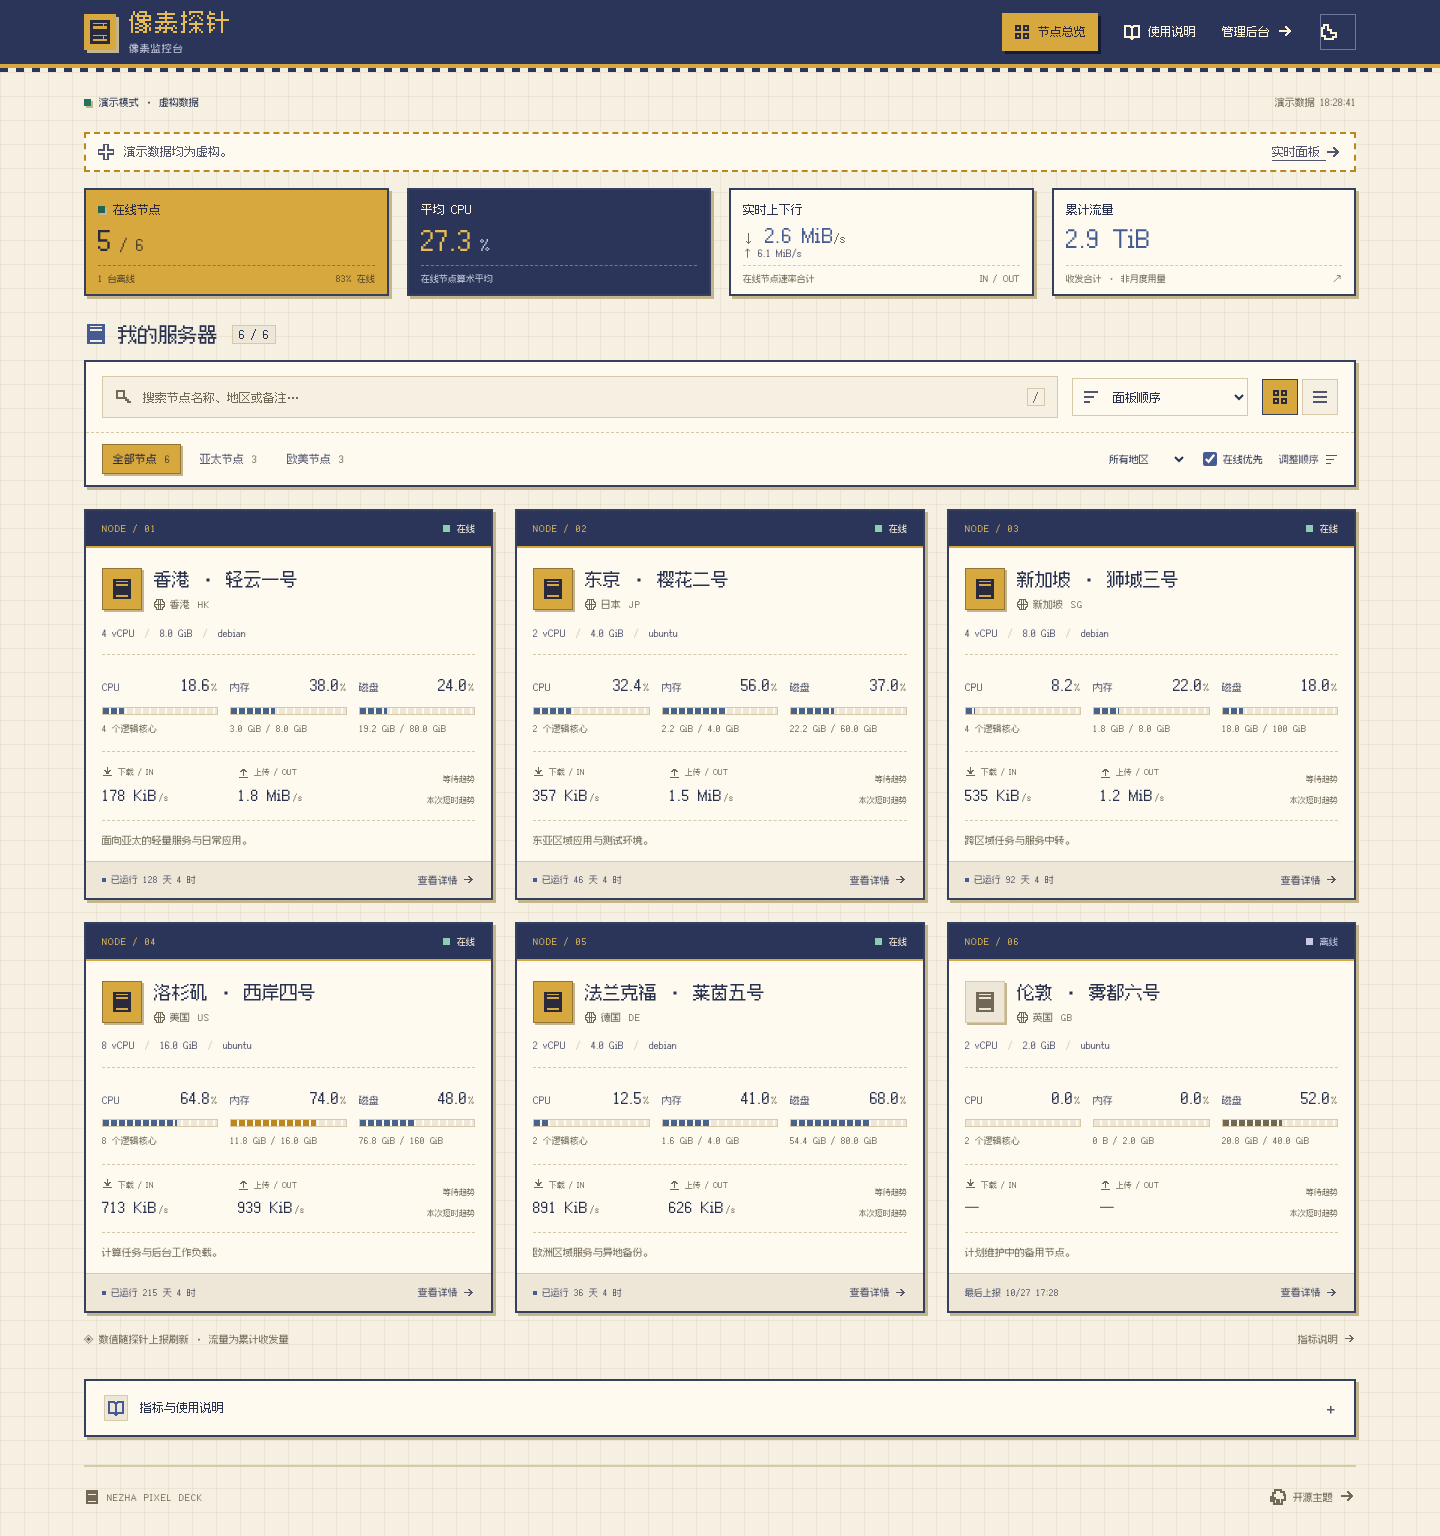
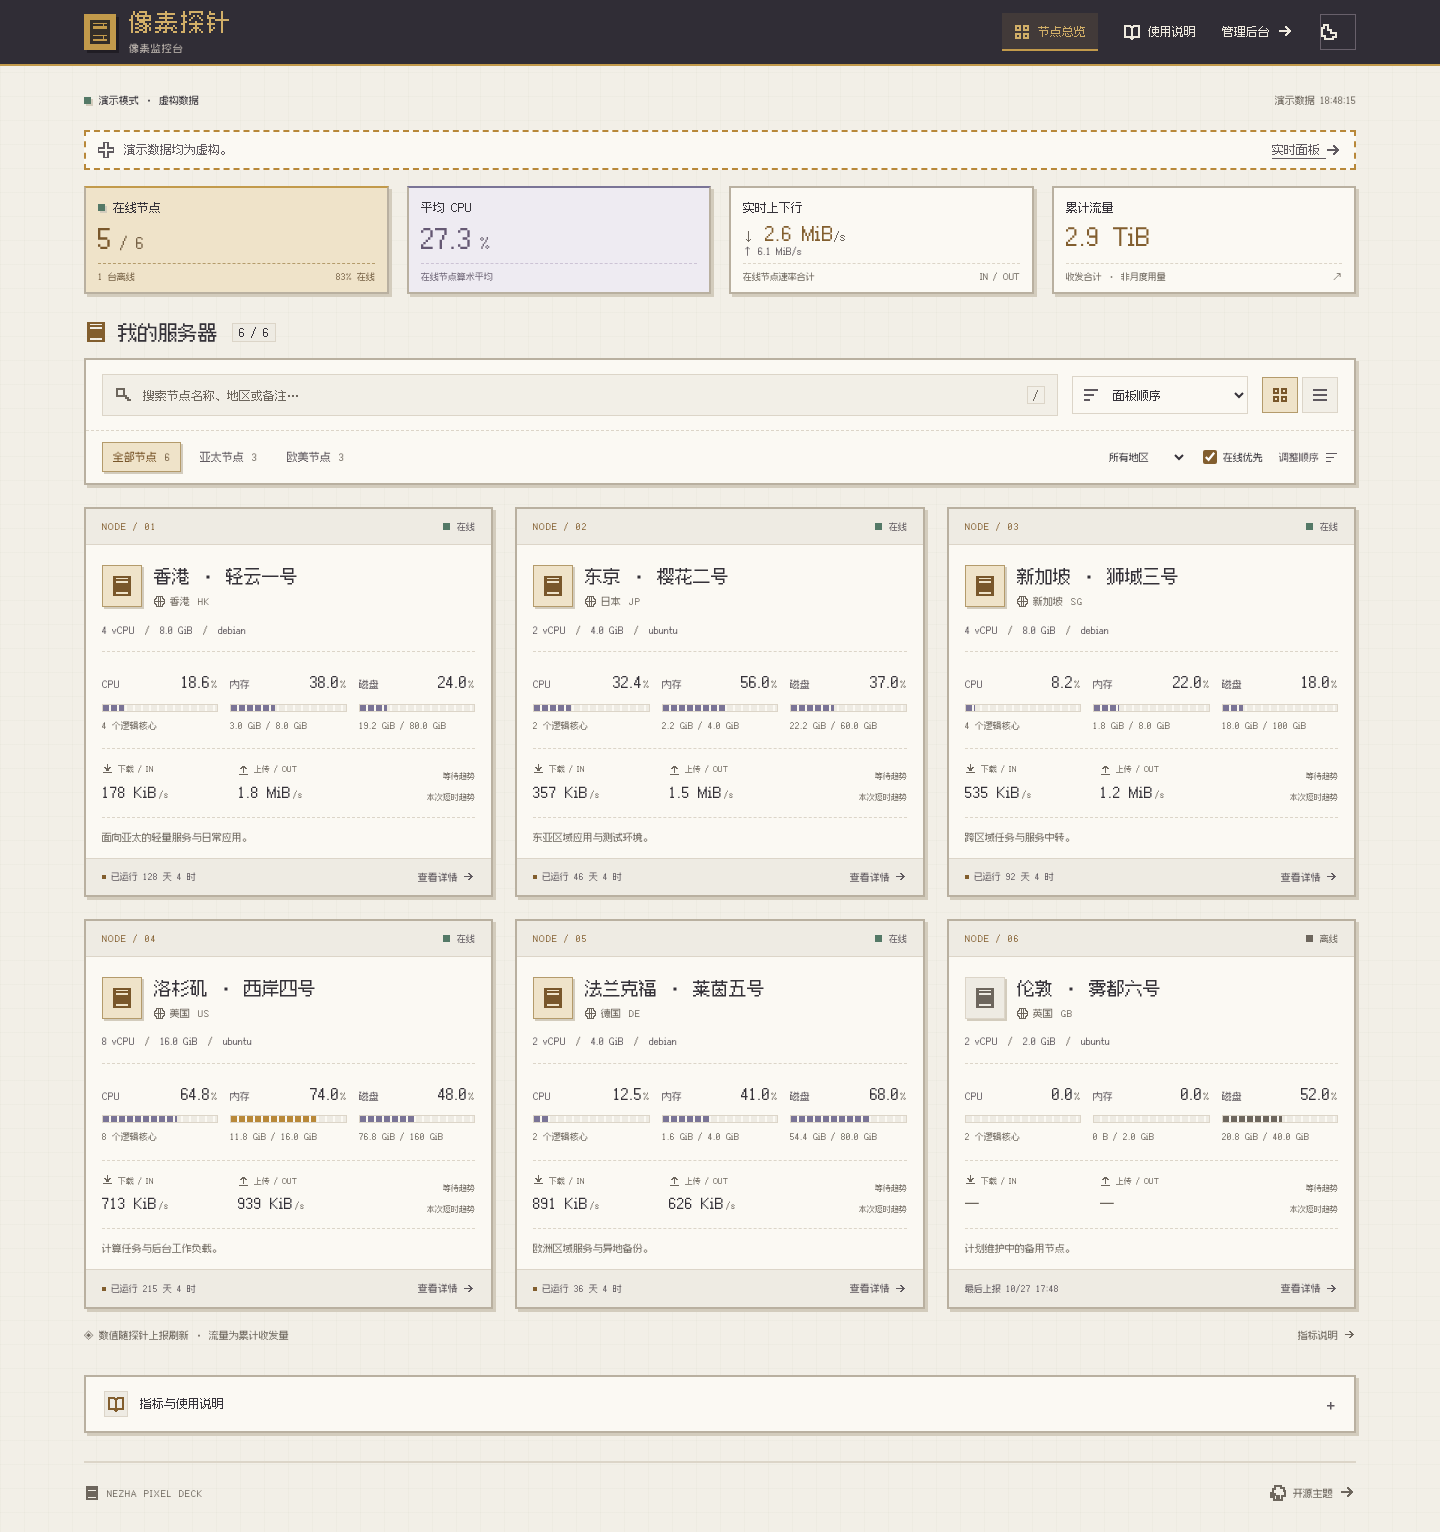
style: balance ginger accents with smoky violet and warm neutrals

diff --git a/src/style.css b/src/style.css
@@ -10,50 +10,66 @@
   font-family: Pixel, ui-monospace, monospace;
   color: var(--ink);
   background: var(--bg);
-  --bg: #f6f0e3;
-  --ink: #28324f;
-  --secondary: #51566d;
-  --muted: #716956;
-  --line: #d7c9a8;
-  --frame: #35405f;
-  --panel: #fffaf0;
-  --panel-alt: #eee7d7;
-  --accent: #465b91;
-  --mustard: #d7a83e;
-  --mustard-hover: #e8bc55;
-  --on-mustard: #292a3d;
-  --mustard-muted: #51432b;
-  --mustard-line: #967534;
-  --header: #2a3559;
-  --on-header: #fff3d6;
-  --header-muted: #c8cbe0;
-  --header-line: #6f789a;
-  --shadow: #c5b58e;
-  --grid: #8c754518;
-  --good: #48648e;
-  --online: #24745b;
-  --warning: #bd861e;
-  --danger: #bd5244;
+  /* Warm neutral surfaces, ginger accents and a quieter violet counterpoint. */
+  --bg: #f2efe7;
+  --ink: #353239;
+  --secondary: #5f595f;
+  --muted: #6d665d;
+  --line: #dcd5c8;
+  --frame: #b9b0a0;
+  --panel: #fbf9f3;
+  --panel-alt: #eeebe3;
+  --accent: #825e2e;
+  --mustard: #c29a4b;
+  --mustard-hover: #d2af68;
+  --on-mustard: #332e28;
+  --mustard-soft: #efe3c9;
+  --mustard-ink: #79572b;
+  --mustard-muted: #776246;
+  --mustard-line: #b49b6b;
+  --contrast-soft: #eeebf2;
+  --contrast-ink: #655873;
+  --contrast-muted: #6e6576;
+  --contrast-line: #ccc3d5;
+  --header: #302d36;
+  --on-header: #efeadf;
+  --header-muted: #c3bbb3;
+  --header-line: #68606b;
+  --shadow: #d3ccbd;
+  --grid: #8a7c5c09;
+  --good: #7a7496;
+  --online: #547967;
+  --warning: #b88839;
+  --danger: #ae6257;
   --radius: 0;
   font-synthesis: none;
   color-scheme: light;
 }
 :root[data-theme="dark"] {
-  --bg: #171d2e;
-  --ink: #f3ead6;
-  --secondary: #cbd0e0;
-  --muted: #b8b09d;
-  --line: #46516d;
-  --frame: #707d9e;
-  --panel: #242d45;
-  --panel-alt: #2d3752;
-  --accent: #e0b34b;
-  --shadow: #0d1220;
-  --grid: #b5bddd0a;
-  --good: #99b1df;
-  --online: #8bceb0;
-  --warning: #e0b34b;
-  --danger: #ee947f;
+  --bg: #211f25;
+  --ink: #e9e3d7;
+  --secondary: #c8c0b3;
+  --muted: #b0a697;
+  --line: #49434c;
+  --frame: #69606b;
+  --panel: #2c2a31;
+  --panel-alt: #343139;
+  --accent: #d1ad65;
+  --mustard-soft: #3e3529;
+  --mustard-ink: #ddbd80;
+  --mustard-muted: #c6b596;
+  --mustard-line: #846d43;
+  --contrast-soft: #35303f;
+  --contrast-ink: #c5b5d7;
+  --contrast-muted: #b9aec3;
+  --contrast-line: #5b5068;
+  --header: #29262e;
+  --shadow: #18161c;
+  --grid: #d1c4a306;
+  --good: #a397b5;
+  --online: #8bae98;
+  --warning: #cba15b;
+  --danger: #cf9384;
   color-scheme: dark;
 }
 * {
@@ -177,21 +193,8 @@ option {
 .topbar {
   background: var(--header);
   color: var(--on-header);
-  border-bottom: 4px solid var(--mustard);
+  border-bottom: 2px solid var(--mustard);
   position: relative;
-}
-.topbar:after {
-  content: "";
-  position: absolute;
-  left: 0;
-  right: 0;
-  bottom: -8px;
-  height: 4px;
-  background: repeating-linear-gradient(
-    90deg,
-    var(--header) 0 8px,
-    transparent 8px 16px
-  );
 }
 .topbar-inner {
   max-width: 1280px;
@@ -213,7 +216,7 @@ option {
   height: 36px;
   background: var(--mustard);
   color: var(--on-mustard);
-  box-shadow: 3px 3px var(--shadow);
+  box-shadow: 3px 3px #201d24;
   display: grid;
   place-items: center;
 }
@@ -250,18 +253,18 @@ option {
   white-space: nowrap;
 }
 .topbar nav .nav-current {
-  color: var(--on-mustard);
-  background: var(--mustard);
+  color: var(--mustard-hover);
+  background: color-mix(in srgb, var(--mustard) 12%, var(--header));
   padding: 8px 12px;
-  box-shadow: 3px 3px #141c34;
+  box-shadow: inset 0 -2px var(--mustard);
 }
 .topbar nav > a:hover,
 .topbar nav > button:hover {
   color: var(--mustard-hover);
 }
 .topbar nav .nav-current:hover {
-  color: var(--on-mustard);
-  background: var(--mustard-hover);
+  color: var(--on-header);
+  background: color-mix(in srgb, var(--mustard) 20%, var(--header));
 }
 .icon-button {
   display: inline-grid;
@@ -343,19 +346,18 @@ option {
   flex-direction: column;
 }
 .stat-online {
-  --accent: var(--on-mustard);
+  --accent: var(--mustard-ink);
   --muted: var(--mustard-muted);
   --line: var(--mustard-line);
-  --online: #24644f;
-  background: var(--mustard);
-  color: var(--on-mustard);
+  background: var(--mustard-soft);
+  border-top-color: var(--mustard);
 }
 .stat:nth-child(2) {
-  --accent: var(--mustard-hover);
-  --muted: var(--header-muted);
-  --line: var(--header-line);
-  background: var(--header);
-  color: var(--on-header);
+  --accent: var(--contrast-ink);
+  --muted: var(--contrast-muted);
+  --line: var(--contrast-line);
+  background: var(--contrast-soft);
+  border-top-color: var(--good);
 }
 .stat-label {
   display: flex;
@@ -518,9 +520,9 @@ option {
   color: var(--secondary);
 }
 .view-buttons button[aria-pressed="true"] {
-  background: var(--mustard);
-  border-color: var(--frame);
-  color: var(--on-mustard);
+  background: var(--mustard-soft);
+  border-color: var(--mustard-line);
+  color: var(--mustard-ink);
 }
 .filters {
   display: flex;
@@ -546,9 +548,9 @@ option {
   border: 1px solid transparent;
 }
 .tab.active {
-  background: var(--mustard);
+  background: var(--mustard-soft);
   border-color: var(--mustard-line);
-  color: var(--on-mustard);
+  color: var(--mustard-ink);
   box-shadow: 2px 2px var(--shadow);
 }
 .tab.active small {
@@ -635,33 +637,34 @@ option {
 .node-card:hover {
   transform: translate(-1px, -1px);
   box-shadow: 5px 5px var(--shadow);
+  border-color: var(--mustard-line);
 }
 .card-top {
   display: flex;
   justify-content: space-between;
   align-items: center;
   padding: 10px 16px;
-  background: var(--header);
-  border-bottom: 2px solid var(--mustard);
+  background: var(--panel-alt);
+  border-bottom: 1px solid var(--line);
   font-size: 9px;
   letter-spacing: 1px;
 }
 .node-number {
-  color: var(--mustard-hover);
+  color: var(--accent);
 }
 .node-status {
   display: flex;
   align-items: center;
   gap: 7px;
   letter-spacing: 0;
-  color: var(--on-header);
+  color: var(--secondary);
 }
 .card-top .status-dot {
-  background: #8bceb0;
+  background: var(--online);
   box-shadow: none;
 }
 .card-top .status-dot.offline {
-  background: var(--header-muted);
+  background: var(--muted);
 }
 .node-title {
   display: flex;
@@ -672,12 +675,12 @@ option {
 .node-avatar {
   display: grid;
   place-items: center;
-  background: var(--mustard);
+  background: var(--mustard-soft);
   border: 1px solid var(--mustard-line);
   width: 40px;
   height: 42px;
   box-shadow: 2px 2px var(--shadow);
-  color: var(--on-mustard);
+  color: var(--mustard-ink);
   flex: none;
 }
 .node-avatar .icon {
@@ -727,7 +730,7 @@ option {
   text-overflow: ellipsis;
 }
 .host-info span {
-  color: var(--line);
+  color: var(--muted);
   margin-inline: 5px;
 }
 .resources {
@@ -905,7 +908,7 @@ option {
   color: var(--muted);
 }
 .is-offline .node-status {
-  color: var(--header-muted);
+  color: var(--muted);
 }
 .is-offline .meter > span {
   background: var(--muted);
@@ -1082,7 +1085,7 @@ dialog {
   overscroll-behavior: contain;
 }
 dialog::backdrop {
-  background: #10182bc4;
+  background: #1d1923c4;
 }
 .detail-heading {
   display: flex;

diff --git a/src/main.ts b/src/main.ts
@@ -106,7 +106,7 @@ app.innerHTML = `
 <div id="connection-notice" class="connection-notice" role="status" hidden></div>
 <div id="node-grid" class="node-grid" aria-label="服务器列表"></div>
 <div class="fleet-footnote"><span>◈ 数值随探针上报刷新 · 流量为累计收发量</span><a href="#guide" id="guide-link">指标说明 ${icon("arrow")}</a></div></section>
-<details class="guide frame" id="guide"><summary class="guide-heading"><span class="guide-mark">${icon("book")}</span><span class="guide-title">指标与使用说明</span><span class="guide-toggle" aria-hidden="true">+</span></summary><div class="guide-grid"><article><h3>资源使用率</h3><p>CPU 是当前使用率；内存与磁盘为已用容量占总量的比例。蓝色表示余量充足，70% 起变为姜黄色，90% 起变为珊瑚红色。</p></article><article><h3>上下行与累计流量</h3><p>↓ 是服务器接收，↑ 是服务器发送；速率单位为字节每秒。累计流量来自探针计数，通常随系统重启归零，不代表本月账单。</p></article><article><h3>在线与数据时效</h3><p>最近 30 秒有探针上报才算在线。断线或数据过期时，页面会明确提示，并把旧读数标为快照，避免误判为实时状态。</p></article></div><details class="more-guide"><summary>排序、隐私与更多说明 <span>+</span></summary><div><p><b>排序：</b>默认按后台展示权重降序、ID 升序排列。可按名称、地区、CPU、内存、累计流量或运行时长排序。「在线优先」会先分在线 / 离线，再应用选定顺序。</p><p><b>我的顺序：</b>通过「调整顺序」前移或后移节点，仅保存在当前浏览器。管理员可使用独立站点配置中的 serverOrder 给所有访客指定默认顺序。</p><p><b>节点详情：</b>点击节点名称或「查看详情」，查看硬件、负载、连接数和本次打开页面后的短时趋势。缺失字段显示 —，趋势不等同于历史监控。</p><p><b>隐私：</b>页面只读取当前访问权限允许的哪吒数据。隐藏节点与敏感信息必须由哪吒后台限制；前端别名、折叠备注或不展示字段不能替代后端权限。</p></div></details></details>
+<details class="guide frame" id="guide"><summary class="guide-heading"><span class="guide-mark">${icon("book")}</span><span class="guide-title">指标与使用说明</span><span class="guide-toggle" aria-hidden="true">+</span></summary><div class="guide-grid"><article><h3>资源使用率</h3><p>CPU 是当前使用率；内存与磁盘为已用容量占总量的比例。灰紫色表示余量充足，70% 起变为姜黄色，90% 起变为陶土红色。</p></article><article><h3>上下行与累计流量</h3><p>↓ 是服务器接收，↑ 是服务器发送；速率单位为字节每秒。累计流量来自探针计数，通常随系统重启归零，不代表本月账单。</p></article><article><h3>在线与数据时效</h3><p>最近 30 秒有探针上报才算在线。断线或数据过期时，页面会明确提示，并把旧读数标为快照，避免误判为实时状态。</p></article></div><details class="more-guide"><summary>排序、隐私与更多说明 <span>+</span></summary><div><p><b>排序：</b>默认按后台展示权重降序、ID 升序排列。可按名称、地区、CPU、内存、累计流量或运行时长排序。「在线优先」会先分在线 / 离线，再应用选定顺序。</p><p><b>我的顺序：</b>通过「调整顺序」前移或后移节点，仅保存在当前浏览器。管理员可使用独立站点配置中的 serverOrder 给所有访客指定默认顺序。</p><p><b>节点详情：</b>点击节点名称或「查看详情」，查看硬件、负载、连接数和本次打开页面后的短时趋势。缺失字段显示 —，趋势不等同于历史监控。</p><p><b>隐私：</b>页面只读取当前访问权限允许的哪吒数据。隐藏节点与敏感信息必须由哪吒后台限制；前端别名、折叠备注或不展示字段不能替代后端权限。</p></div></details></details>
 <footer><a class="footer-brand" href="https://github.com/xuanvivo/nezha-pixel-deck" target="_blank" rel="noreferrer">${icon("server")} NEZHA PIXEL DECK</a><a href="https://github.com/xuanvivo/nezha-pixel-deck" target="_blank" rel="noreferrer">${icon("github")}开源主题 ${icon("arrow")}</a></footer>
 </main><dialog id="detail" aria-labelledby="detail-title"><div id="detail-body"></div></dialog><div id="announcement" class="sr-only" role="status" aria-live="polite"></div>`;
 

diff --git a/tests/dashboard.spec.ts b/tests/dashboard.spec.ts
@@ -37,7 +37,7 @@ test("manual order survives reload and deep theme preference persists", async ({
   await page.reload();
   await expect(page.locator(".node-name").first()).toContainText("东京");
   await expect(page.locator("html")).toHaveAttribute("data-theme", "dark");
-  await expect(page.locator("body")).toHaveCSS("color", "rgb(243, 234, 214)");
+  await expect(page.locator("body")).toHaveCSS("color", "rgb(233, 227, 215)");
 });
 test("live mode reads same-origin v2 frames and escapes public notes", async ({
   page,

diff --git a/index.html b/index.html
@@ -3,7 +3,7 @@
   <head>
     <meta charset="UTF-8" />
     <meta name="viewport" content="width=device-width, initial-scale=1.0" />
-    <meta name="theme-color" content="#2a3559" />
+    <meta name="theme-color" content="#302d36" />
     <meta
       name="description"
       content="哪吒 v2 服务器实时监控：在线状态、资源使用率、流量与排序。"

diff --git a/README.md b/README.md
@@ -8,7 +8,7 @@
 
 ## 有什么
 
-- 深度像素界面：姜黄色 × 深靛蓝撞色、本地中文像素字体、硬边框、方块图标、分段资源条和深浅色主题。
+- 深度像素界面：姜黄 × 烟灰紫配色、暖米白与炭灰底、本地中文像素字体、硬边框、方块图标、分段资源条和深浅色主题。
 - 实时状态：在线数、CPU、内存、磁盘、收发速率、累计流量、运行时间。
 - 灵活排序：后台权重、名称、地区、CPU、内存、累计流量、运行时间、自定义前移 / 后移；支持在线优先。
 - 搜索与筛选：名称、地区、备注全文搜索，后台分组与地区筛选，卡片 / 紧凑视图。
